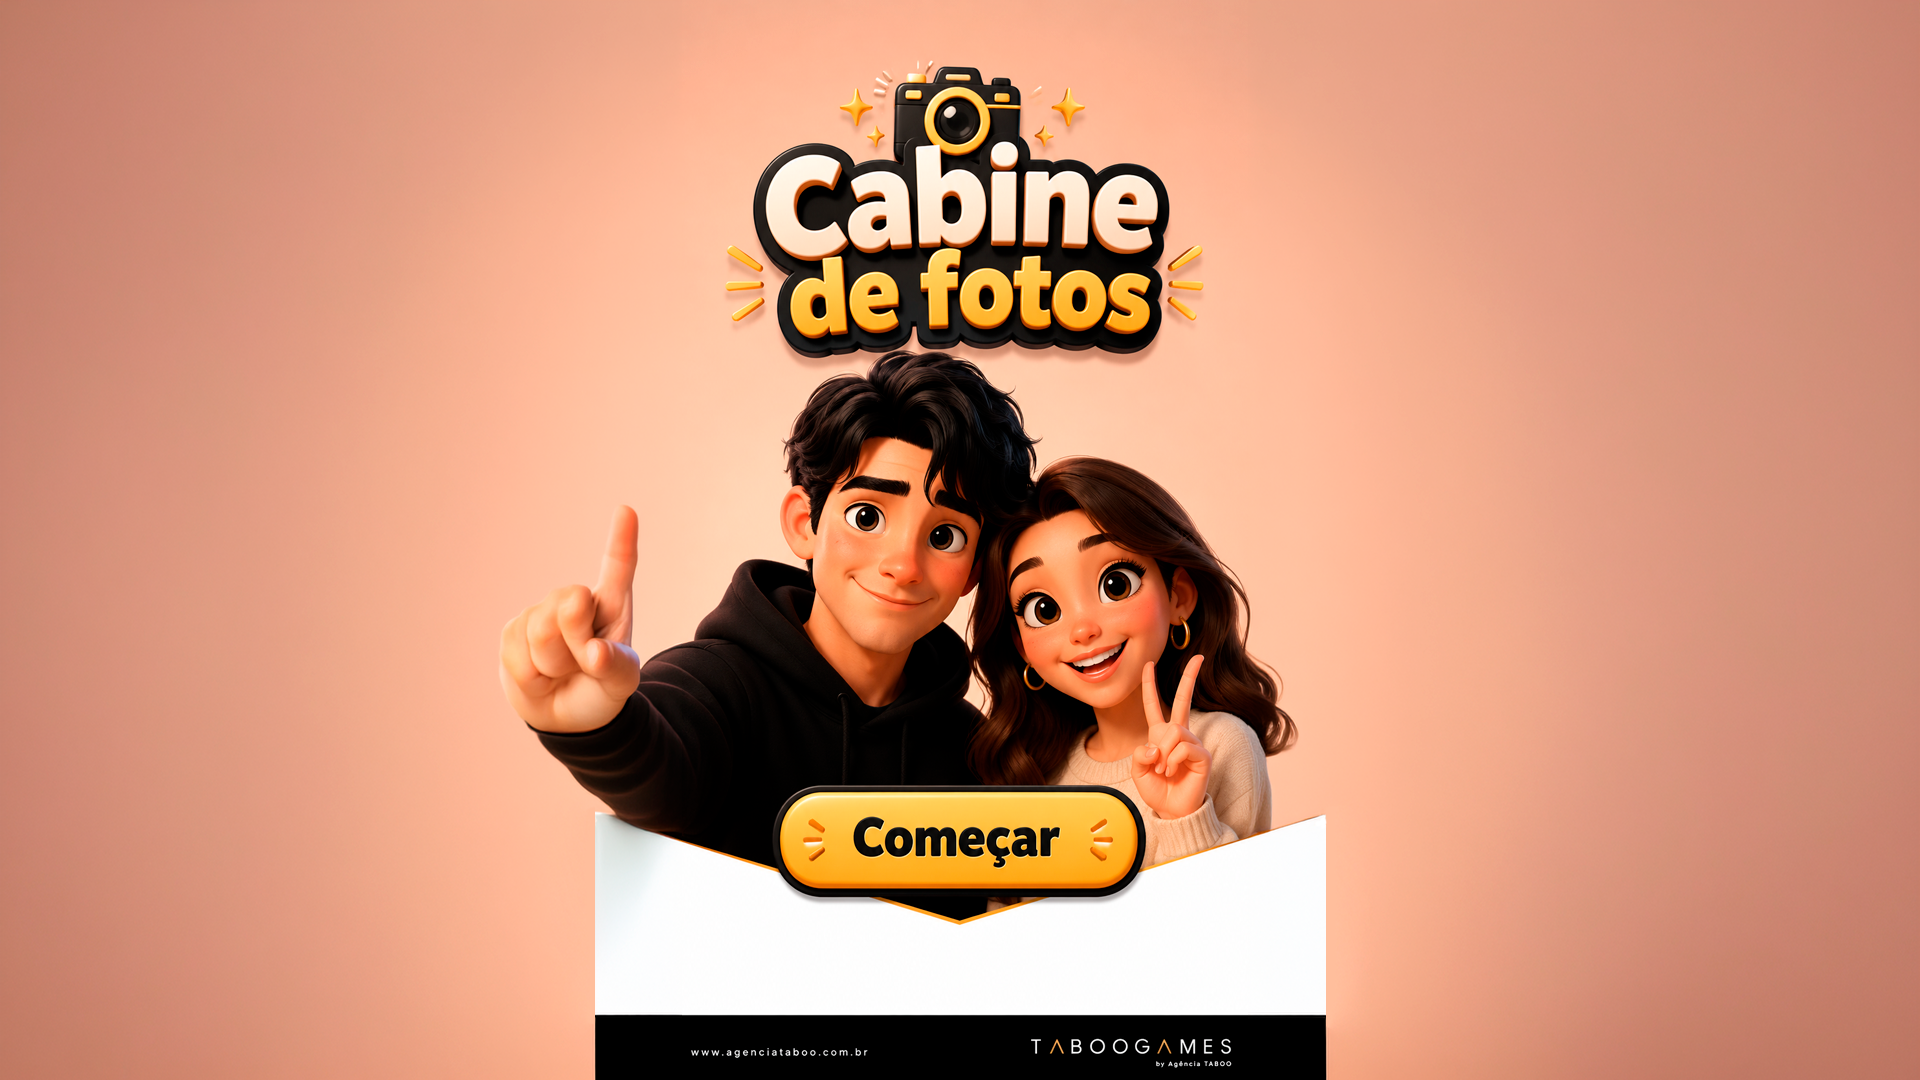
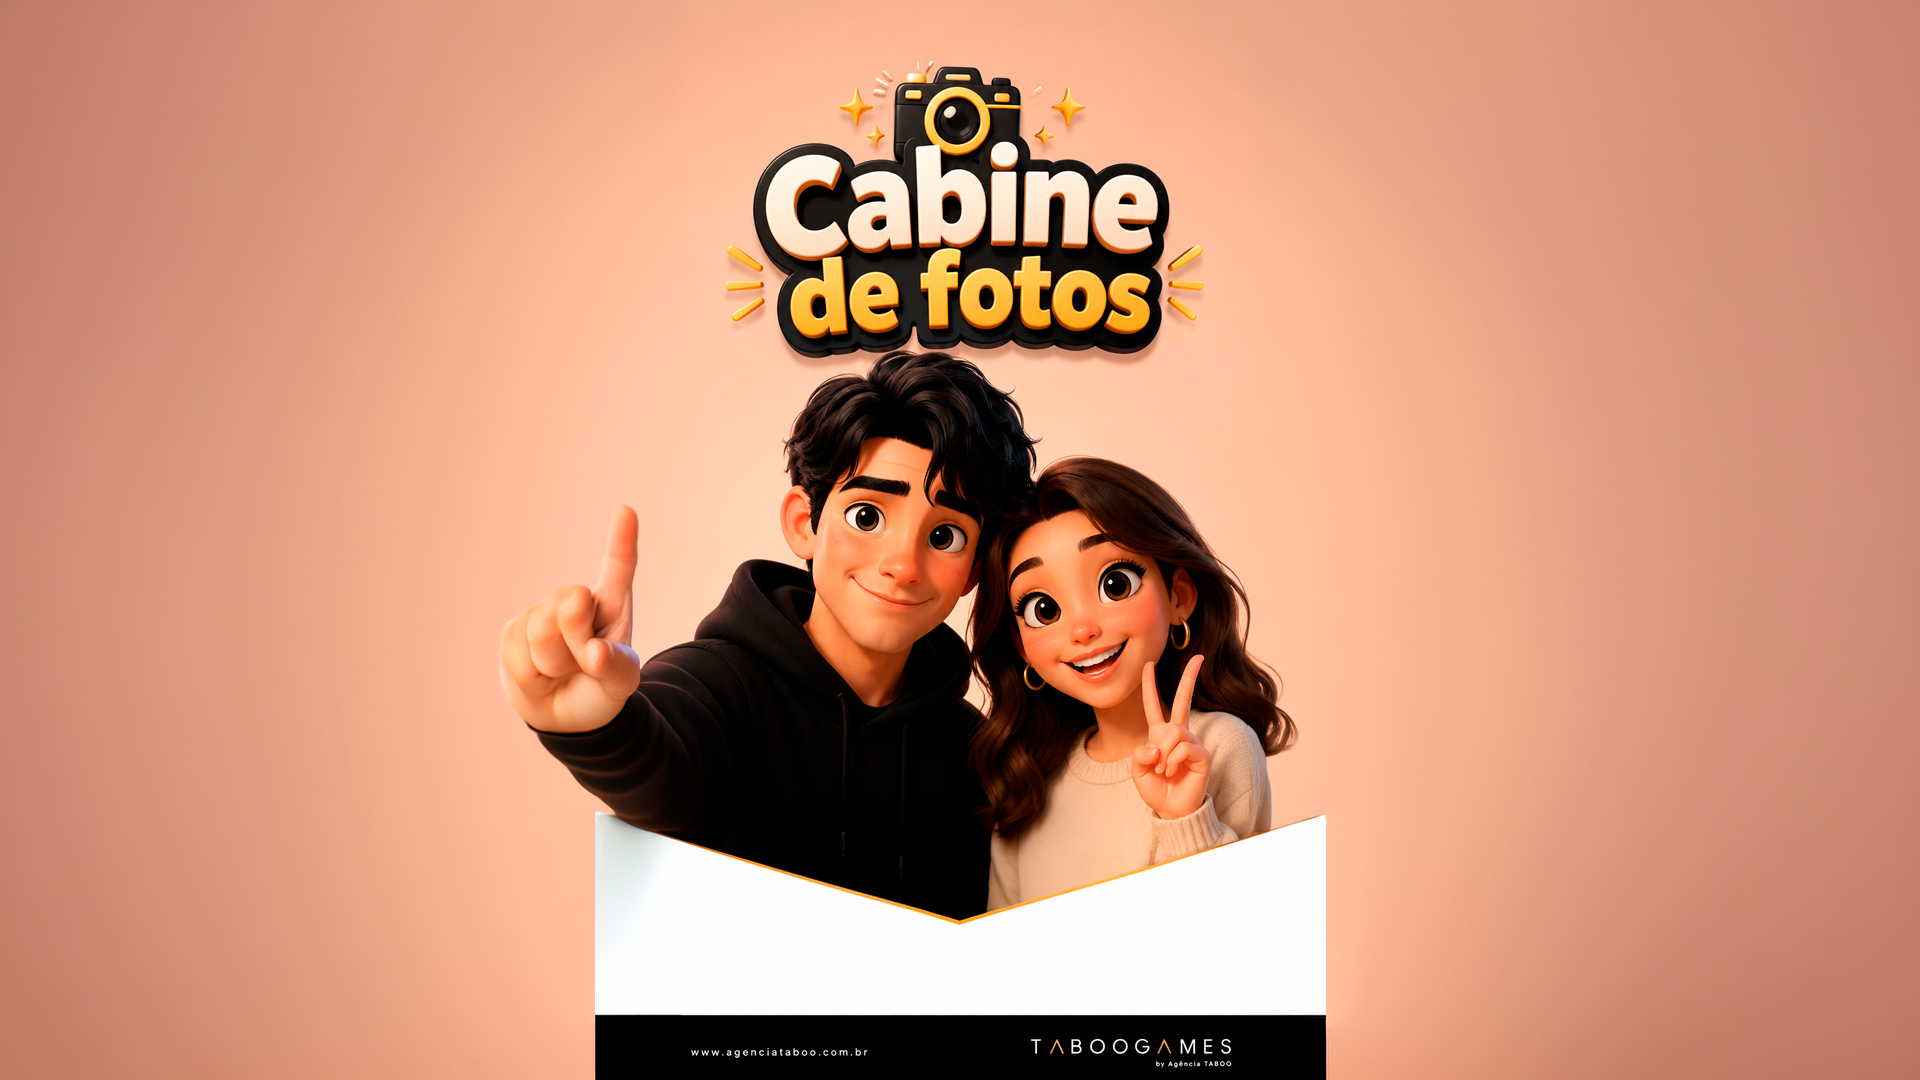
Add files via upload

Changed region(s): [[0.4062, 0.7028, 0.625, 0.8556]]

diff --git a/index.html b/index.html
@@ -4,7 +4,7 @@
   <meta charset="UTF-8" />
   <meta name="viewport" content="width=device-width, initial-scale=1, viewport-fit=cover" />
   <meta name="theme-color" content="#111827" />
-  <title>Avatar Experience</title>
+  <title>Cabine de Fotos</title>
   <link rel="stylesheet" href="styles.css" />
 </head>
 <body>
@@ -12,7 +12,9 @@
     <section class="screen active start-screen" id="startScreen" aria-label="Cabine de fotos">
       <div class="start-artwork">
         <img src="assets/tela-inicio.png" alt="Cabine de fotos" class="start-artwork-image" />
-        <button class="start-artwork-button" id="startButton" aria-label="Começar"></button>
+        <button class="start-artwork-button" id="startButton" aria-label="Começar">
+          <img src="assets/comecar.png" alt="Começar" />
+        </button>
       </div>
     </section>
 
@@ -31,7 +33,7 @@
       </div>
 
       <div class="camera-actions">
-        <button class="secondary-button" id="switchCameraButton">TROCAR CÂMERA</button>
+        <!-- <button class="secondary-button" id="switchCameraButton">TROCAR CÂMERA</button> -->
         <button class="capture-button" id="captureButton" aria-label="Tirar foto">
           <span></span>
         </button>

diff --git a/styles.css b/styles.css
@@ -386,18 +386,25 @@ input:focus { border-color: var(--accent); }
 }
 .start-artwork-button {
   position: absolute;
-  left: 39.25%;
-  top: 62.75%;
-  width: 21.5%;
-  height: 9.1%;
+  left: 50%;
+  top: 66.6%;
+  width: 20.4%;
+  height: auto;
   margin: 0;
   padding: 0;
   border: 0;
-  border-radius: 999px;
   background: transparent;
   cursor: pointer;
+  transform: translate(-50%, -50%);
   touch-action: manipulation;
   -webkit-tap-highlight-color: transparent;
+}
+.start-artwork-button img {
+  display: block;
+  width: 100%;
+  height: auto;
+  user-select: none;
+  -webkit-user-drag: none;
 }
 .start-artwork-button:focus-visible {
   outline: 4px solid rgba(255, 255, 255, .95);
